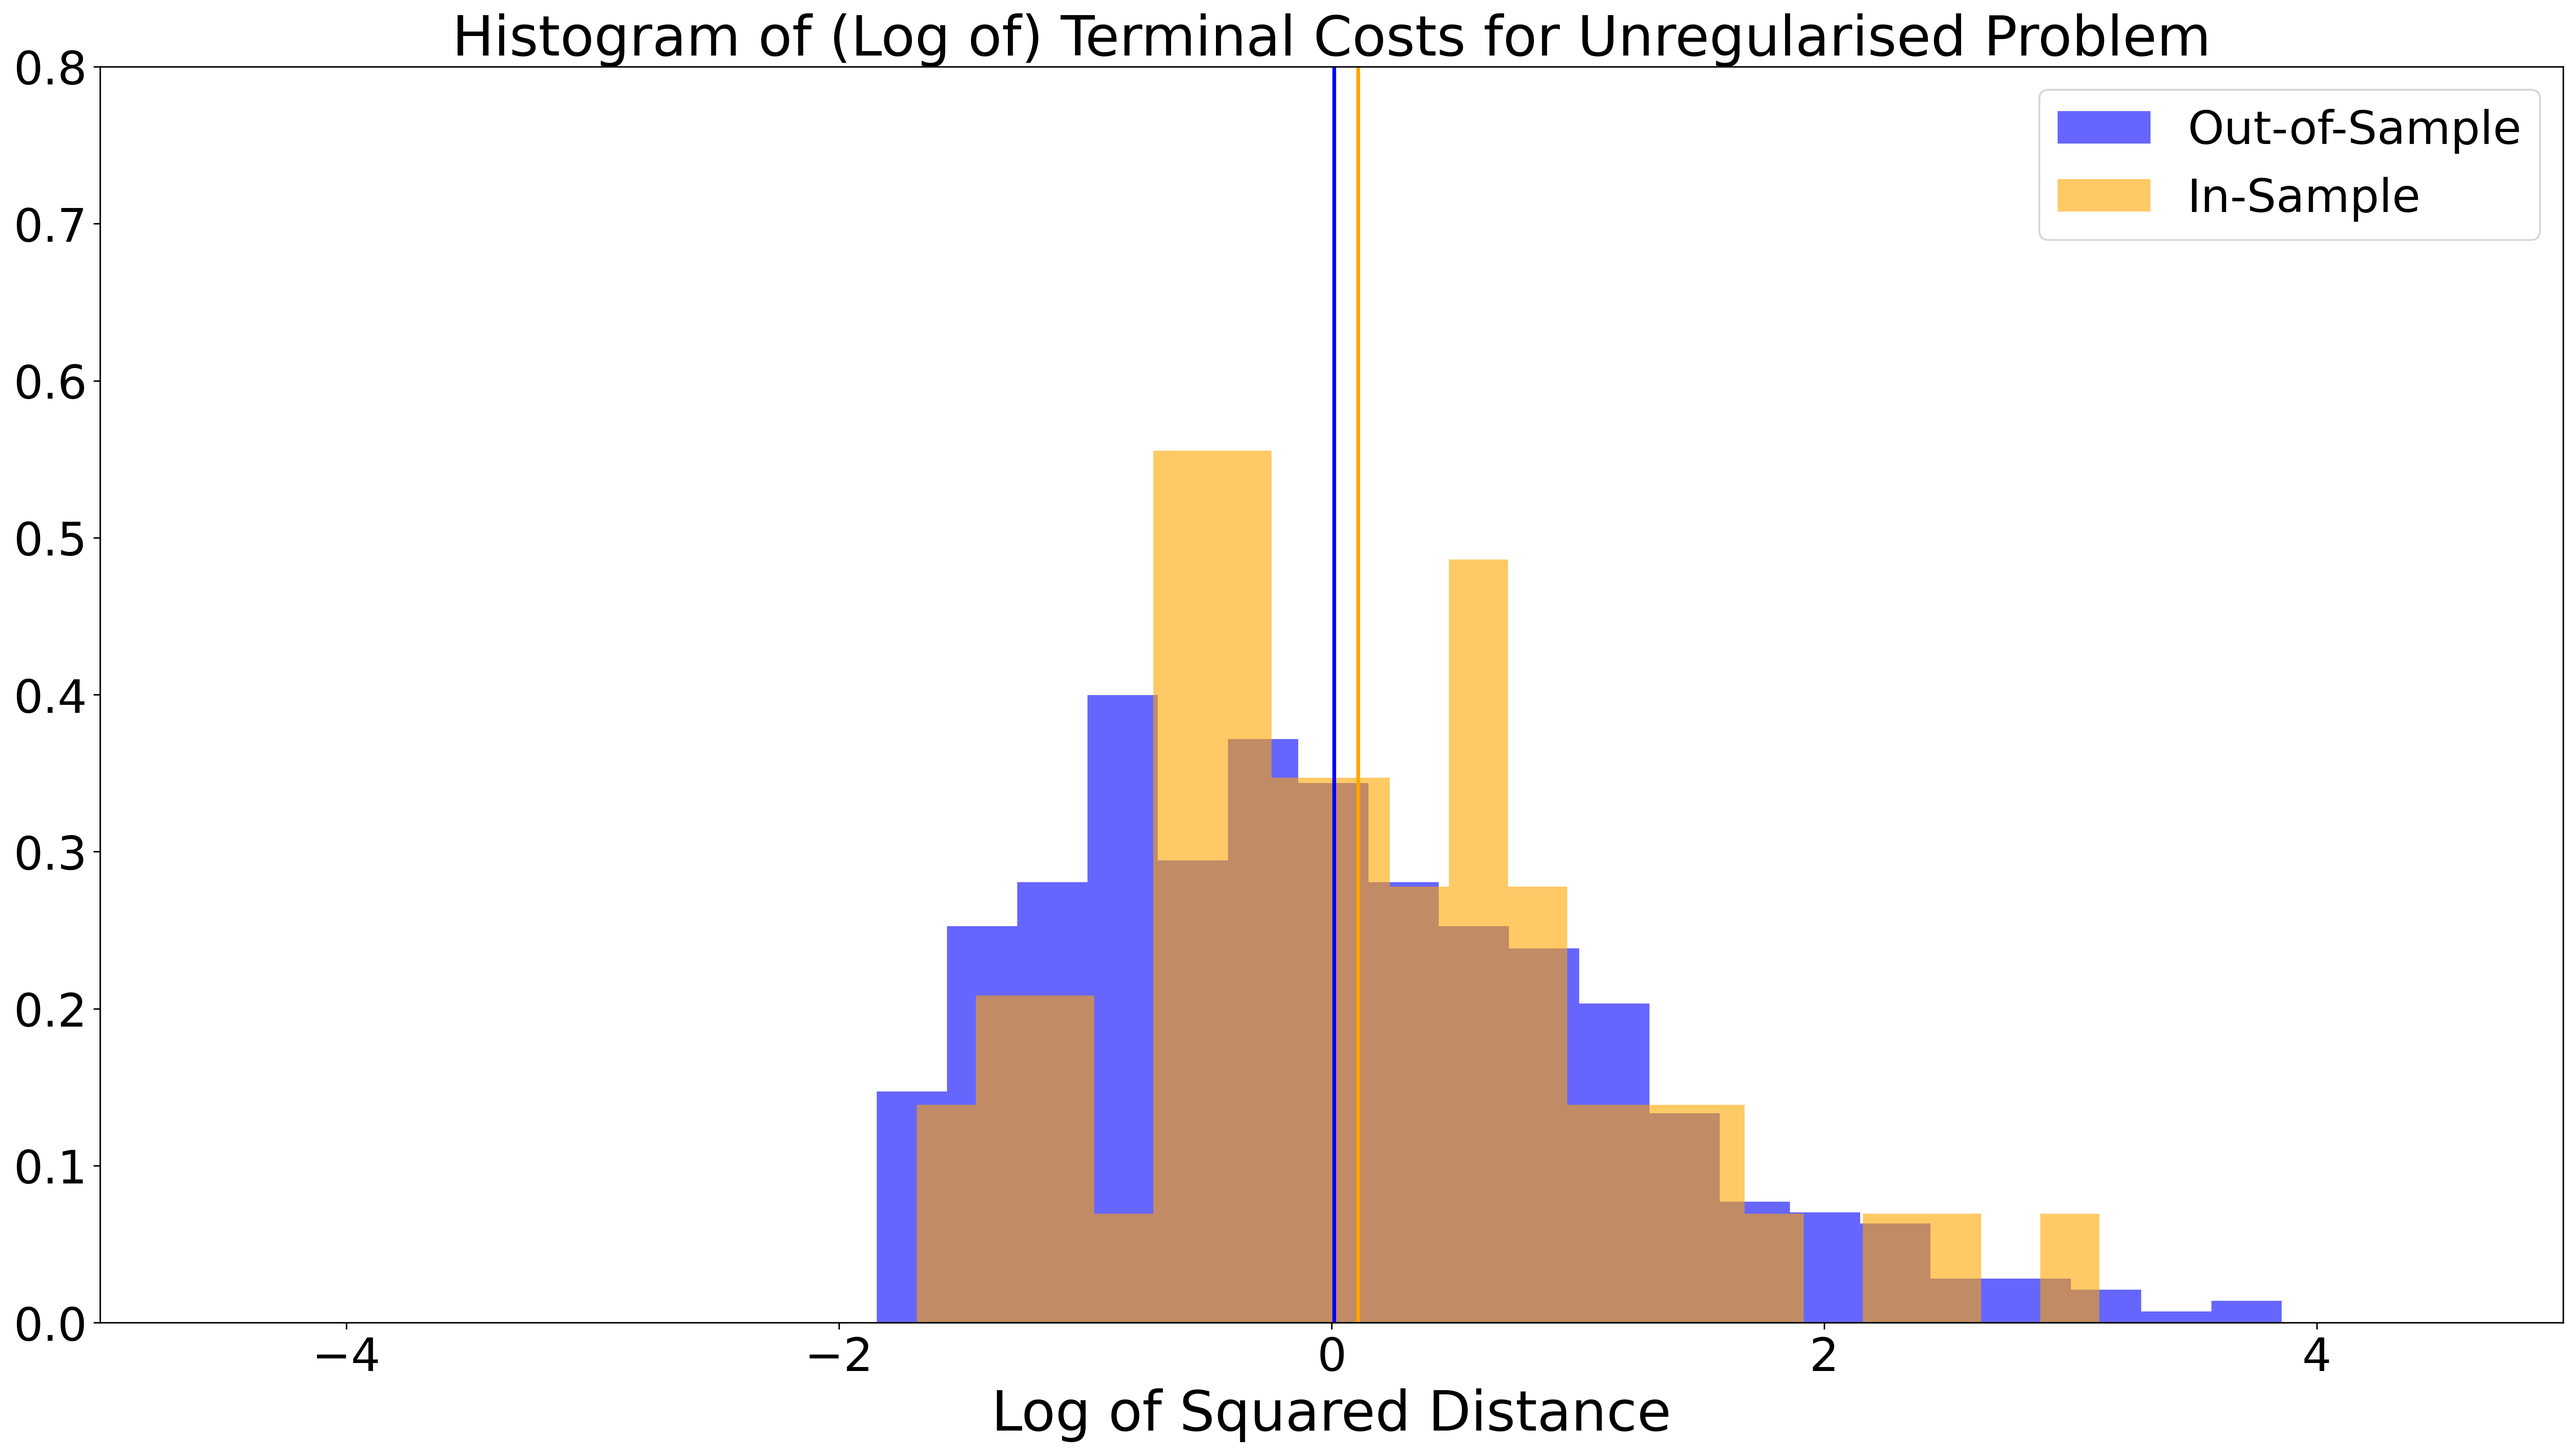
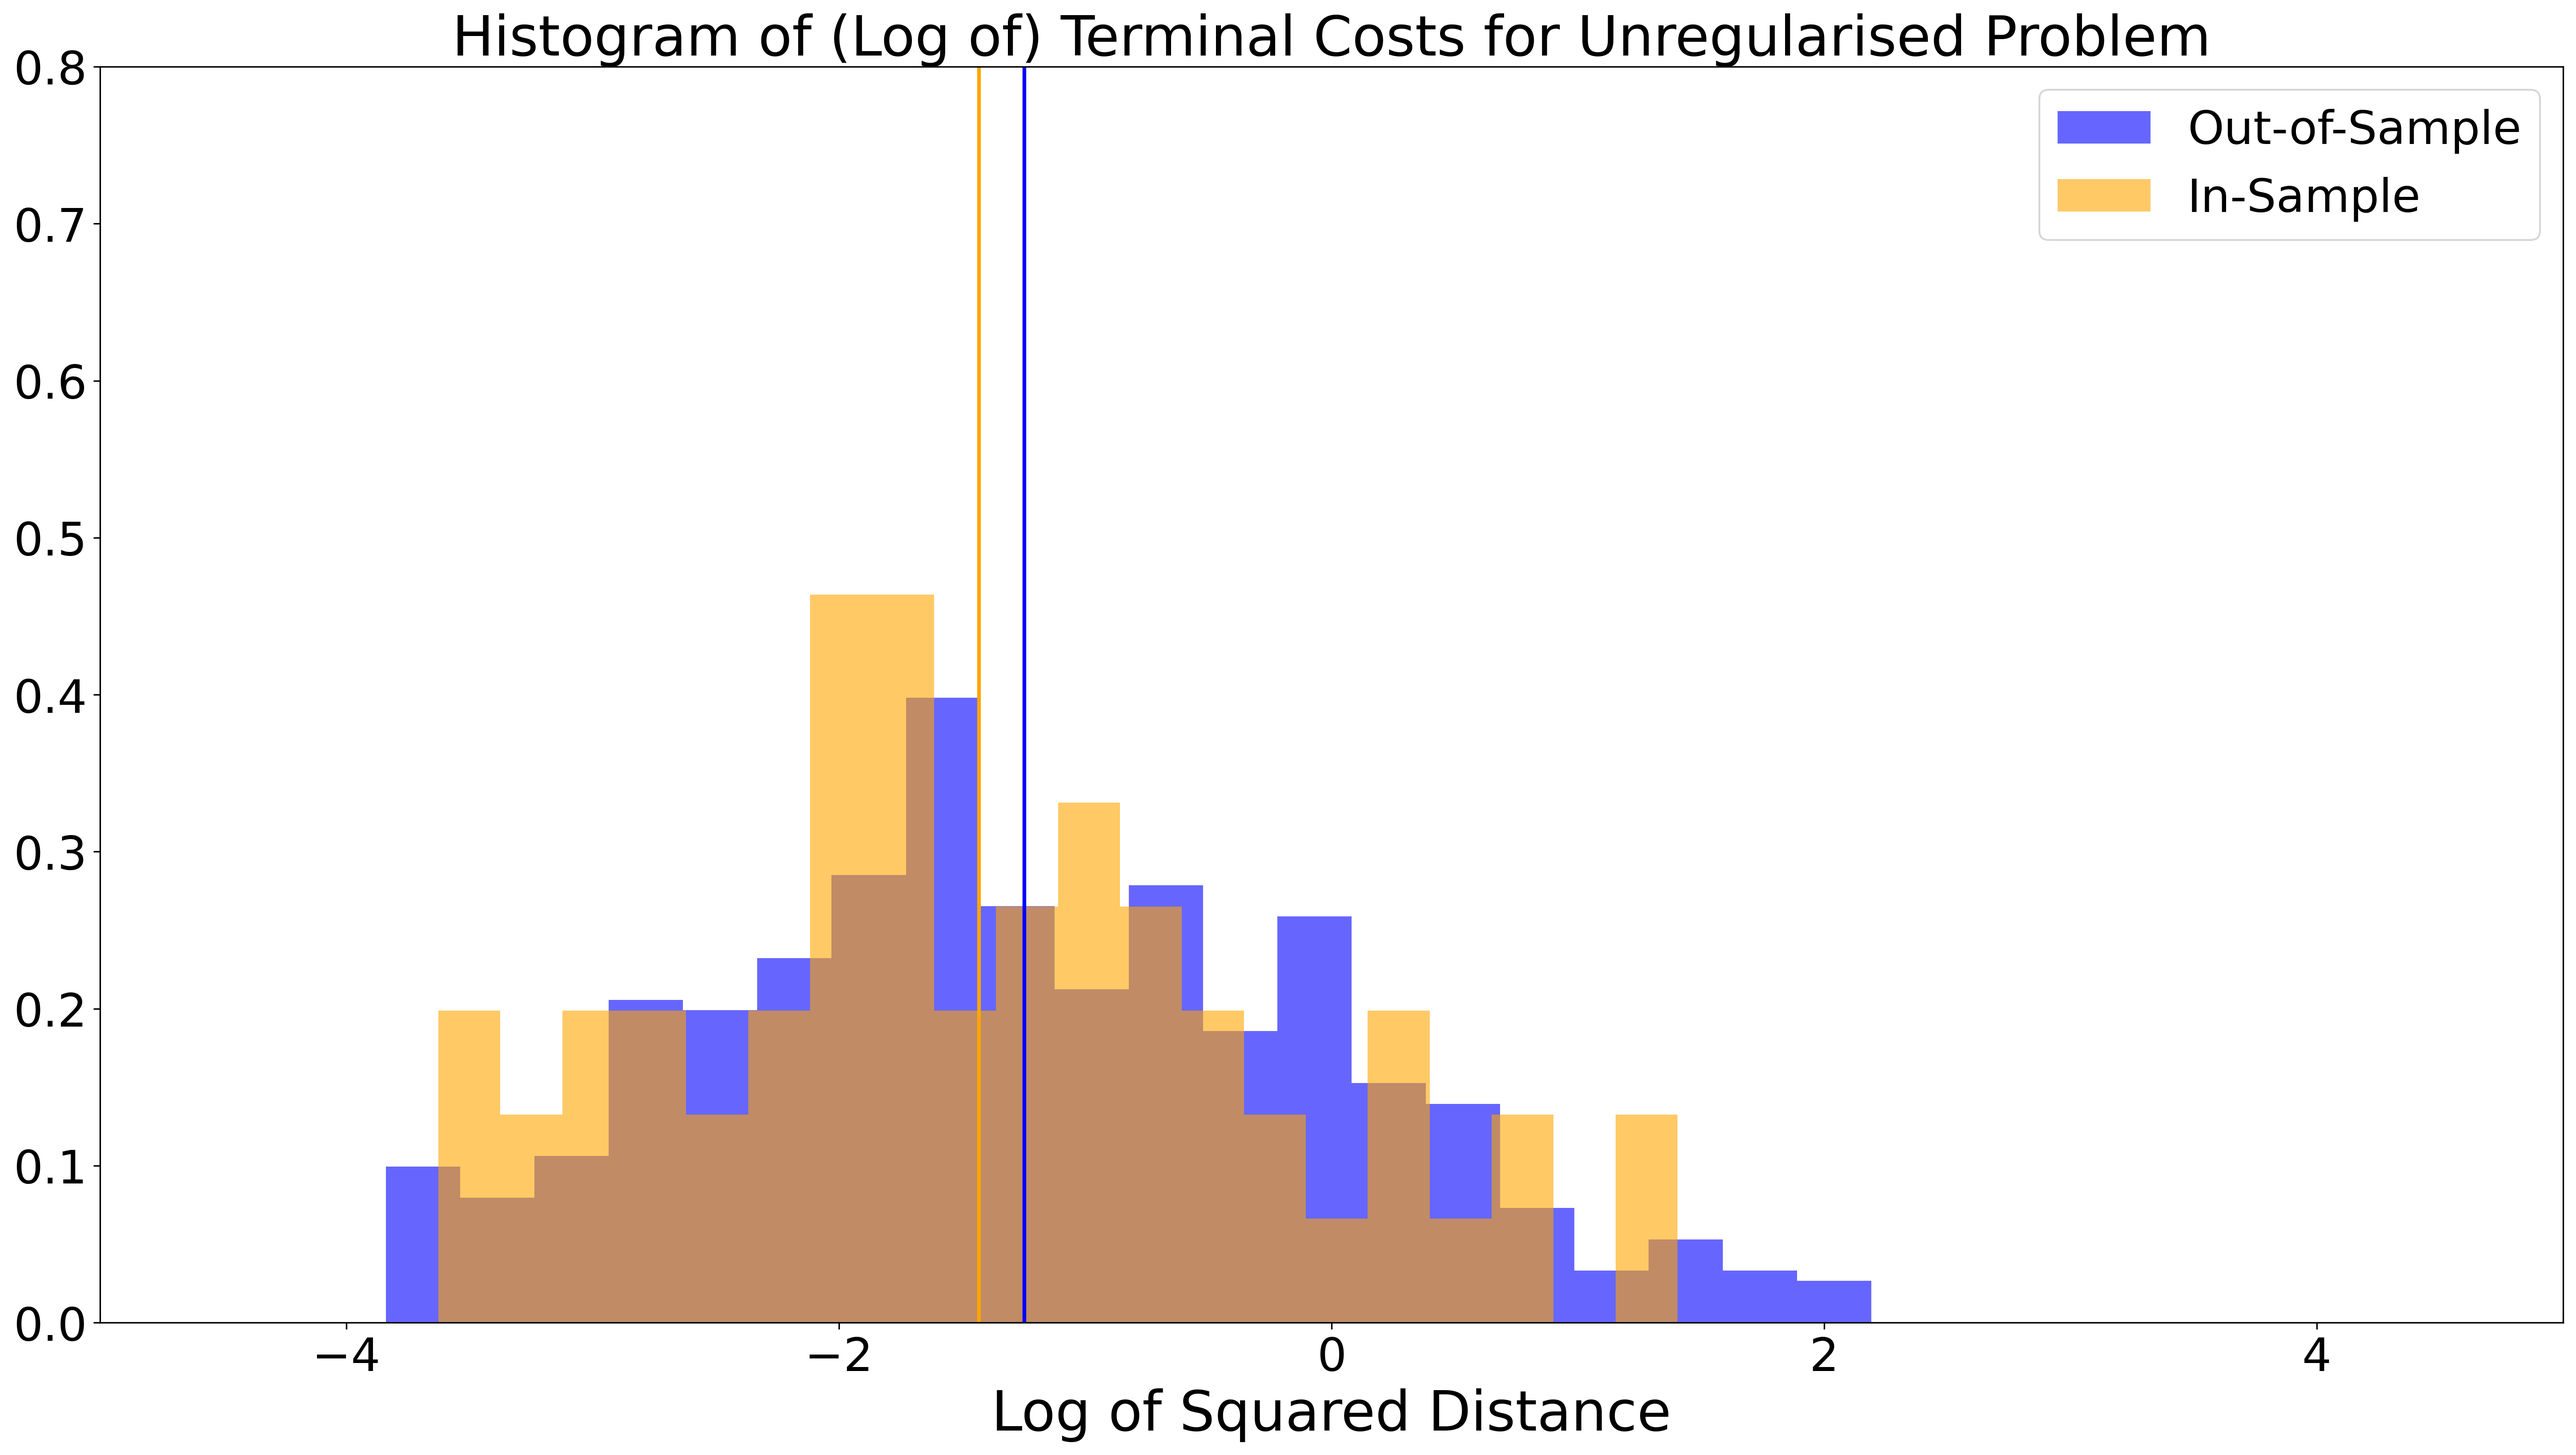
Adding first set of images

Changed region(s): [[0.125, 0.0623, 0.9059, 0.9346]]

diff --git a/erm_basic_wind_tester.py b/erm_basic_wind_tester.py
@@ -63,6 +63,7 @@ class NeuralNet_2(nn.Module):
         self.hidden_layer = nn.Linear(input_dim, width)
         self.hidden_layer_2 = nn.Linear(width, width)
         self.hidden_layer_3 = nn.Linear(width, width)
+        self.hidden_layer_4 = nn.Linear(width, width)
         self.sigmoid = nn.Tanh()
         self.output_layer = nn.Linear(width, output_dim)
         
@@ -70,18 +71,19 @@ class NeuralNet_2(nn.Module):
         activations_1 = self.sigmoid(self.hidden_layer(x))
         activations_2 = self.sigmoid(self.hidden_layer_2(activations_1))
         activations_3 = self.sigmoid(self.hidden_layer_3(activations_2))
-        unscaled = self.output_layer(activations_2)
+        activations_4 = self.sigmoid(self.hidden_layer_4(activations_3))
+        unscaled = self.output_layer(activations_3)
         return unscaled# / self.width
     
 # now let's train
-input_dim, width, output_dim = 3, 300, 1
-start_rate, final_rate, num_epochs = 0.0001, 0.000000001, 10000
+input_dim, width, output_dim = 3, 100, 1
+start_rate, final_rate, num_epochs = 0.00001, 0.000000001, 20000
 models_2 = [NeuralNet_2(input_dim, width, output_dim).to(device) for _ in range(T)]
 optimizers_2 = [optim.AdamW(model.parameters(), lr=start_rate) for model in models_2]
 schedulers_2 = [optim.lr_scheduler.CosineAnnealingLR(opt, T_max = num_epochs, eta_min = final_rate) for opt in optimizers_2]
 
 vs = 0.8
-n = 60
+n = 64
 A = 2
 M = 10
 ref_ctrl = torch.zeros(n, 1, device = device)
@@ -266,7 +268,7 @@ ani.save("erm_basic_wind_sample_animation.gif", writer="pillow", fps=10)
 plt.close()
 
 # now for out-of-sample
-test_size = 500
+test_size = 1000
 test_winds = wind_process(T, theta, mu, wind_sigma, test_size, tau)
 test_initial_points = torch.zeros(test_size, 2, device = device) - torch.tensor([20, 0], device = device)
 test_paths = [test_initial_points]
